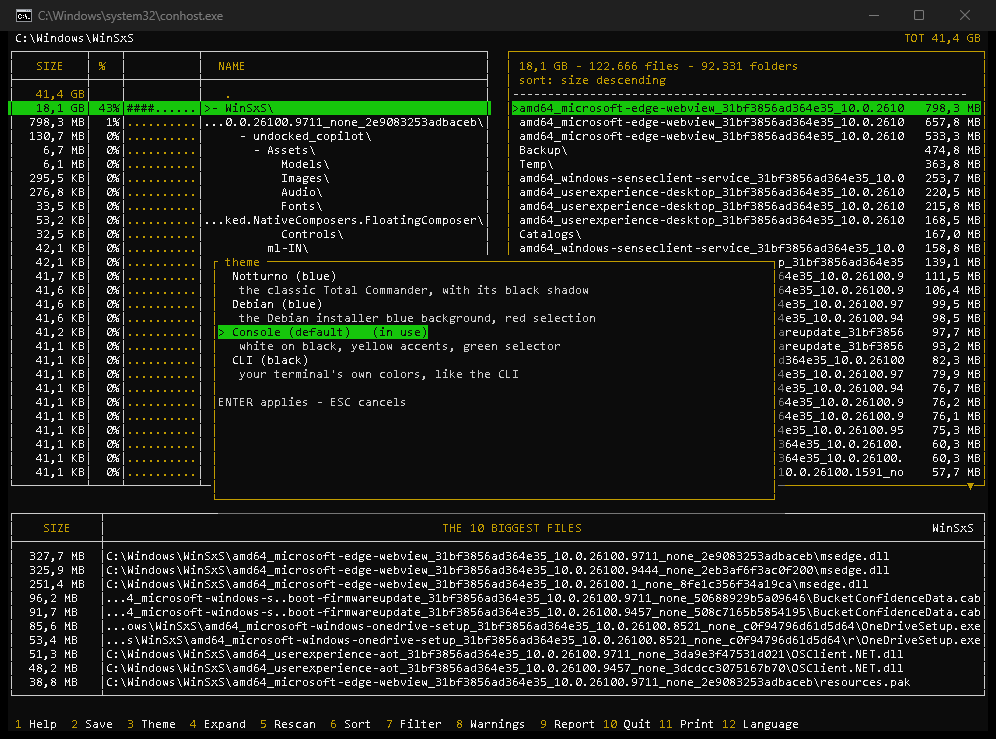
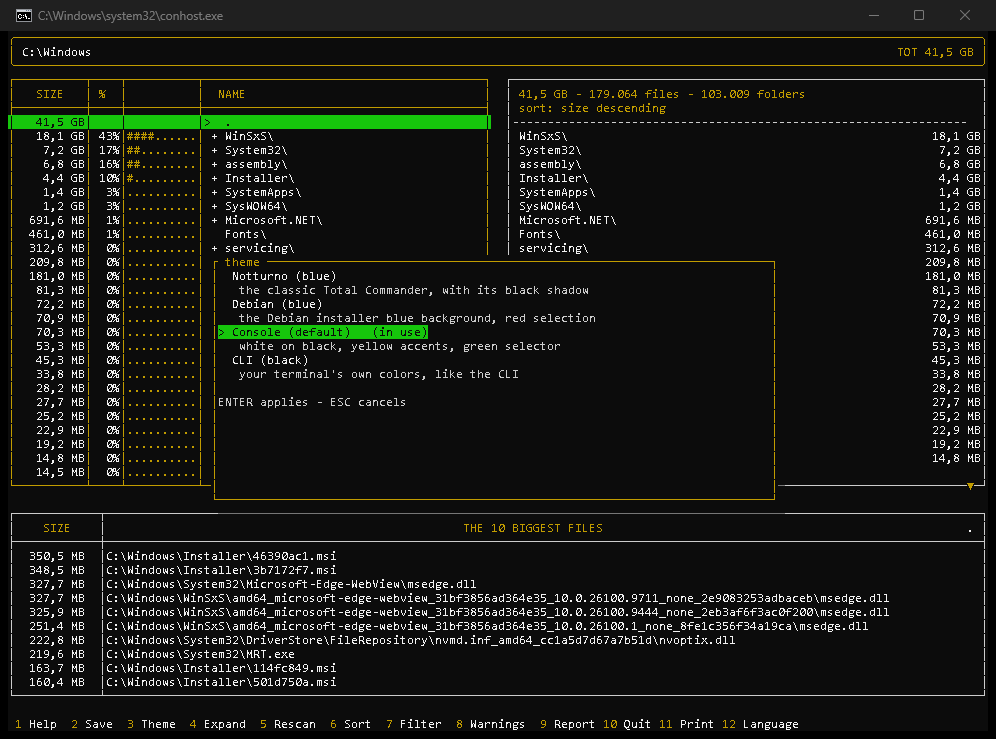
feat(tui): the title band wears the CLI box - rounded corners, the declared title; screenshots and GIFs recaptured

diff --git a/rust/crates/mfd-tui/src/ui.rs b/rust/crates/mfd-tui/src/ui.rs
@@ -14,7 +14,7 @@ use ratatui::layout::{Constraint, Layout, Position, Rect};
 use ratatui::style::{Color, Style};
 use ratatui::text::{Line, Span};
 use ratatui::widgets::{
-    Block, Borders, Cell, Clear, Paragraph, Row as TRow, Table, TableState, Wrap,
+    Block, BorderType, Borders, Cell, Clear, Paragraph, Row as TRow, Table, TableState, Wrap,
 };
 use ratatui::Frame;
 use std::time::Duration;
@@ -351,7 +351,7 @@ fn draw_main(f: &mut Frame, app: &mut App) {
     let t = &app.theme;
     paint_bg(f, area, t);
     let mut cons: Vec<Constraint> = vec![
-        Constraint::Length(1), // la fascia del percorso
+        Constraint::Length(3), // la fascia del percorso: il box del titolo, come la CLI
         Constraint::Min(3),    // albero | dettaglio
     ];
     // il pannello della classifica vuole il suo spazio: su un terminale
@@ -433,7 +433,15 @@ fn draw_fascia(f: &mut Frame, app: &App, area: Rect) {
         path.push_str(&app.cat.tf("cli.filtro", &[&fl.display()]));
     }
     let tot = app.cat.tf("tui.fascia_tot", &[&fmt_bytes(disp_total)]);
-    let w = area.width as usize;
+    // il box della fascia: gli stessi angoli della CLI (╭ ╮ ╰ ╯) — il posto
+    // d'onore del quadro, il percorso dichiarato come intestazione, non una
+    // riga nuda: omogeneo alla griglia della CLI, il titolo del film
+    let block = Block::default()
+        .borders(Borders::ALL)
+        .border_type(BorderType::Rounded)
+        .border_style(t.border_active);
+    let inner = block.inner(area);
+    let w = inner.width as usize;
     let budget = w.saturating_sub(tot.chars().count() + 4);
     let shown = shorten(&path, budget);
     // il TOT a destra: il percorso a sinistra, il totale chiuso in fondo
@@ -445,7 +453,8 @@ fn draw_fascia(f: &mut Frame, app: &App, area: Rect) {
         Span::raw(" ".repeat(pad)),
         Span::styled(tot, t.title),
     ]);
-    f.render_widget(Paragraph::new(line).style(t.screen), area);
+    f.render_widget(block, area);
+    f.render_widget(Paragraph::new(line).style(t.screen), inner);
 }
 
 /// La barra dei tasti funzione, alla Total Commander. Le scritte si
@@ -1662,19 +1671,19 @@ mod tests {
         let mut app = App::with_tree(dir.clone(), tree);
         app.sel = 15; // l'ultima riga (f01): la radice ha preso la prima
         app.refresh();
-        let mut terminal = Terminal::new(TestBackend::new(120, 12)).unwrap();
+        let mut terminal = Terminal::new(TestBackend::new(120, 14)).unwrap();
         terminal.draw(|f| draw(f, &mut app)).unwrap();
         let screen = screen_text(&terminal);
         // la lista e' scrollata e il render lo dichiara: la prima riga
-        // visibile e' f06 (la fascia del percorso si e' presa una riga:
-        // una in meno da scorrere), la selezione f01 sta in fondo con la
-        // freccia
+        // visibile e' f06 (la fascia del percorso si e' presa tre righe:
+        // il box del titolo, come la CLI — due in meno da scorrere), la
+        // selezione f01 sta in fondo con la freccia
         let z = app.hits.list.expect("la zona della lista c'e'");
         assert!(z.top > 0, "la lista scrolla: top={}", z.top);
-        // sotto la fascia, il bordo del pannello, l'intestazione e il suo
-        // separatore (il vestito della griglia ha una riga in piu'):
-        // le righe dati partono a y=4
-        assert_eq!(z.rect.y, 4);
+        // sotto il box della fascia (3 righe), il bordo del pannello,
+        // l'intestazione e il suo separatore (il vestito della griglia
+        // ha una riga in piu'): le righe dati partono a y=6
+        assert_eq!(z.rect.y, 6);
         assert!(screen.contains("f05"), "prima riga visibile: {screen:?}");
         assert!(screen.contains(">  f01"), "selezione visibile in fondo: {screen:?}");
         // il click sulla prima riga visibile seleziona la riga che si vede

diff --git a/CHANGELOG.md b/CHANGELOG.md
@@ -4,6 +4,15 @@ Format inspired by "Keep a Changelog"; the version is mfd-cli's.
 
 ## [Unreleased]
 
+### Changed
+- **The TUI title band wears the CLI's box**: the path in the header is
+  framed with the same rounded corners (╭ ╮ ╰ ╯) of the CLI's grid —
+  the declared title of the picture, three rows tall, the blue path and
+  the TOT inside. The two frontends now speak the same grammar from the
+  very first line. All the screenshots and the three TUI GIFs are
+  recaptured with the new band; the scan loader is caught live on
+  WinSxS.
+
 ### Added
 - **The READMEs show the tools in motion**: four animated GIFs replace
   the static screenshots of the tour — the CLI round trip (command
